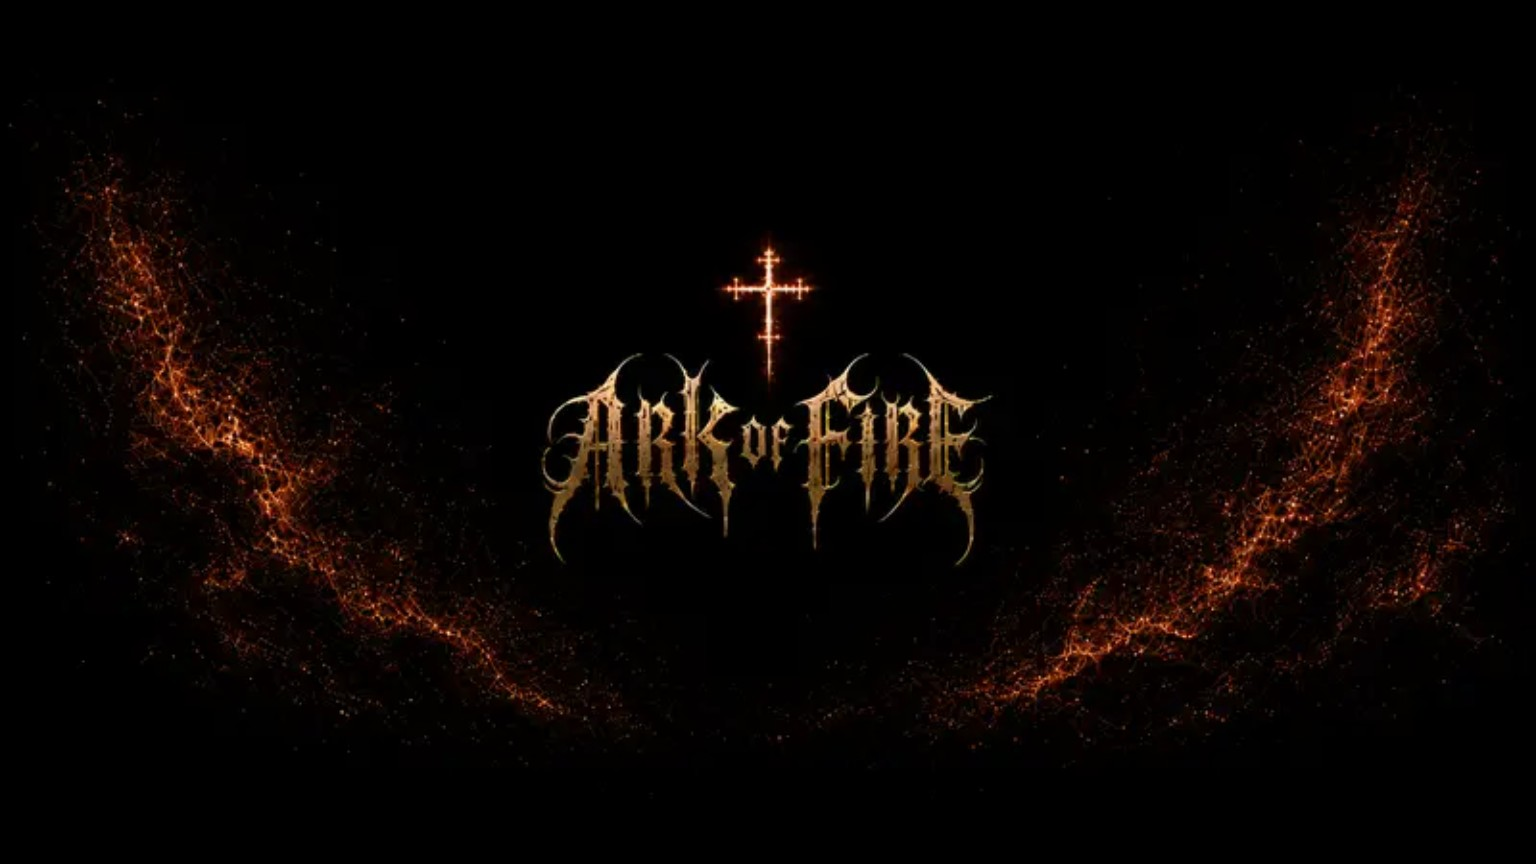
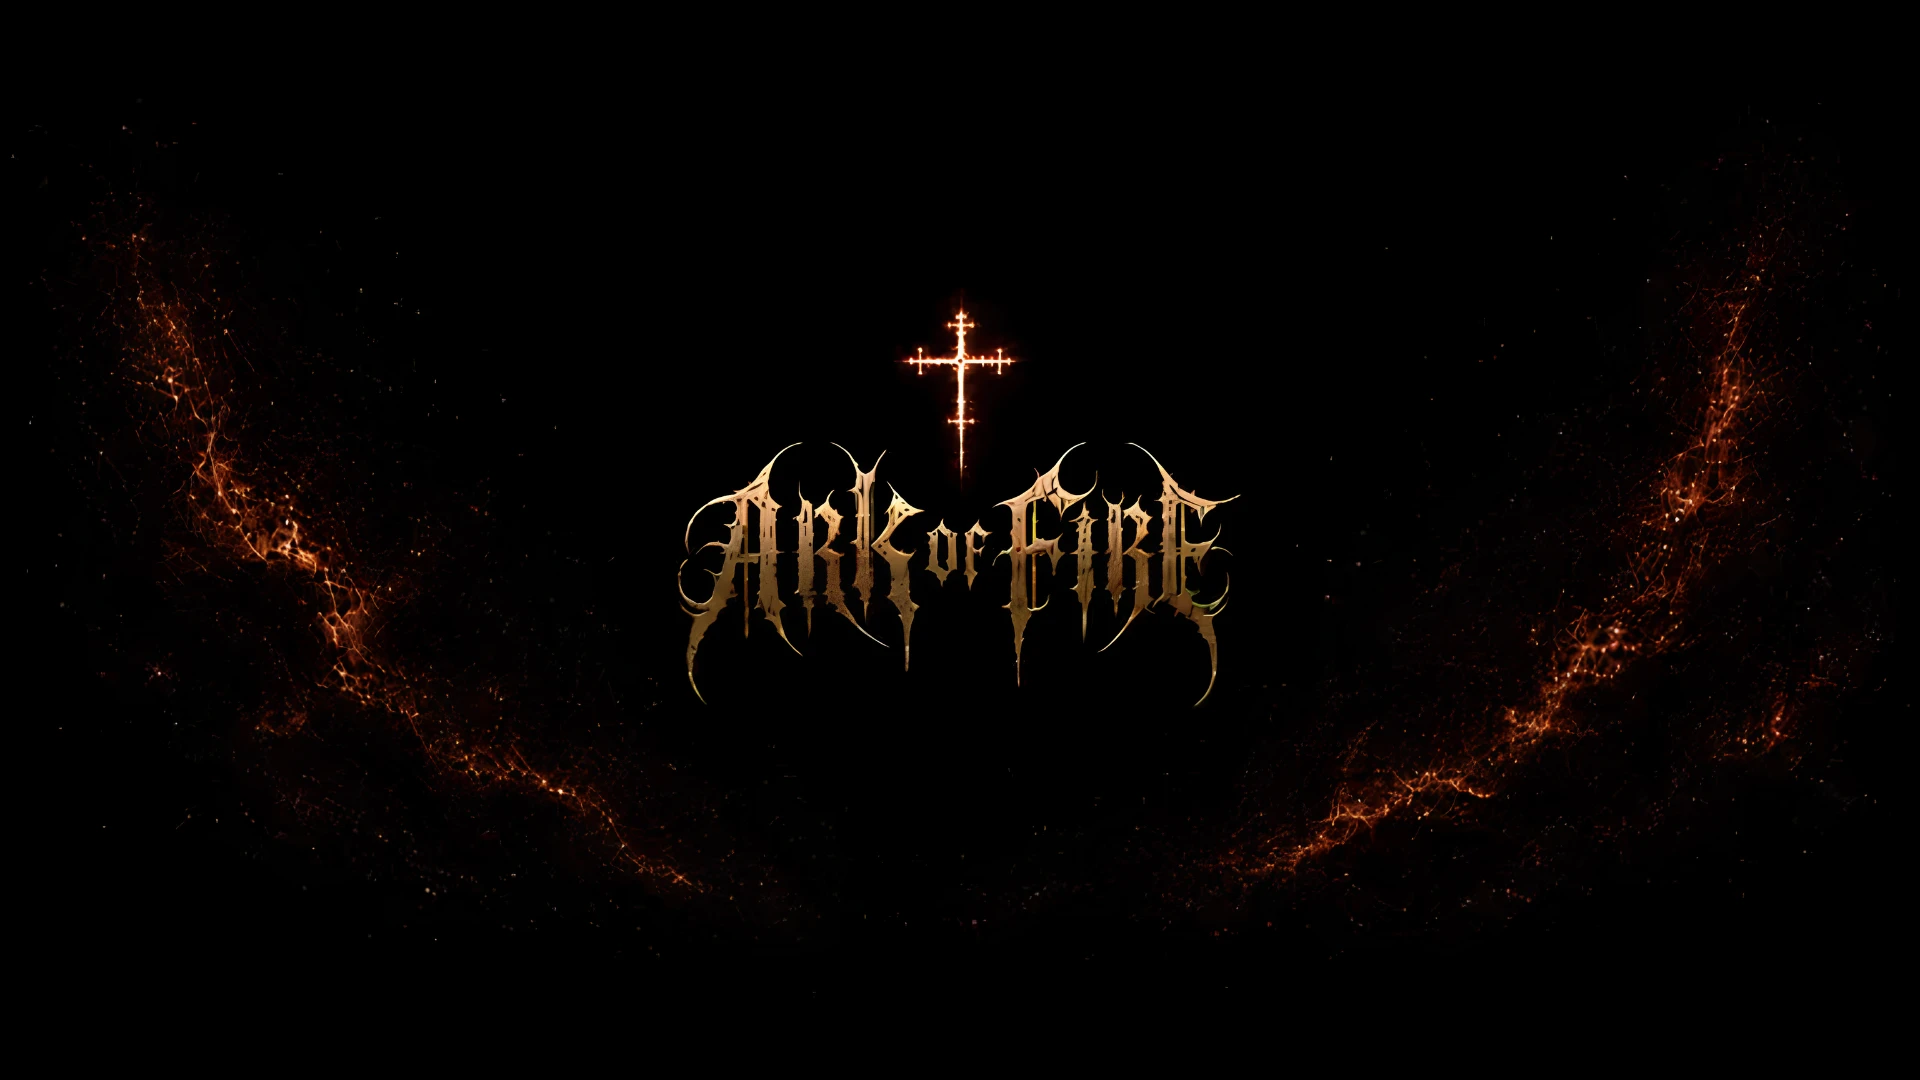
feat(ark-of-fire): HERO w lepszej jakości (WebP 1920×1080 od Dowódcy)
Poprzedni plik był JPEG 1536×864 z rozszerzeniem .webp. Nowy: prawdziwy WebP, bez metadanych, bez ponownej kompresji. Wersje cache: hero ?v=20261102_hq, CSS _2.

diff --git a/ArkOfFire/assets/styles.css b/ArkOfFire/assets/styles.css
@@ -24,11 +24,11 @@ img { max-width: 100%; }
 .skip-link { position: absolute; left: 12px; top: -80px; z-index: 50; background: var(--gold); color: #111; padding: 10px 16px; border-radius: 6px; font-weight: 700; text-decoration: none; }
 .skip-link:focus { top: 12px; }
 
-/* HERO — przesłana grafika 1536×864, logo i krzyż w grafice bez zmian */
+/* HERO — przesłana grafika 1920×1080, logo i krzyż w grafice bez zmian */
 .hero { min-height: 100svh; position: relative; display: flex; align-items: flex-end; overflow: hidden; background: #030303; }
 .hero::before {
   content: ''; position: absolute; inset: 0;
-  background-image: linear-gradient(180deg, rgba(0,0,0,.5), rgba(0,0,0,0) 35%, rgba(0,0,0,.14) 58%, #080809 97%), url('/ArkOfFire/assets/ark-of-fire-hero.webp');
+  background-image: linear-gradient(180deg, rgba(0,0,0,.5), rgba(0,0,0,0) 35%, rgba(0,0,0,.14) 58%, #080809 97%), url('/ArkOfFire/assets/ark-of-fire-hero.webp?v=20261102_hq');
   background-size: cover; background-position: center 35%;
 }
 .top { position: absolute; top: 0; left: 0; right: 0; z-index: 4; padding: 24px clamp(20px,5vw,64px); display: flex; align-items: center; justify-content: space-between; gap: 15px; }

diff --git a/ArkOfFire/en/index.html b/ArkOfFire/en/index.html
@@ -19,8 +19,8 @@
     gtag('config','G-Y4EFTVBPE3',(function(){try{var s=location.search,k='cc_team';if(/[?&]cc_team=1/.test(s))localStorage.setItem(k,'1');if(/[?&]cc_team=0/.test(s))localStorage.removeItem(k);if(localStorage.getItem(k)==='1'||/[?&]in_mcr=1/.test(s)||window.obsstudio)return{traffic_type:'internal'}}catch(e){}return{}})());
   </script><script src="/js/cc-analytics.js?v=20261026_1" defer></script>
 
-  <link rel="preload" as="image" href="/ArkOfFire/assets/ark-of-fire-hero.webp">
-  <link rel="stylesheet" href="/ArkOfFire/assets/styles.css?v=20261102_1">
+  <link rel="preload" as="image" href="/ArkOfFire/assets/ark-of-fire-hero.webp?v=20261102_hq">
+  <link rel="stylesheet" href="/ArkOfFire/assets/styles.css?v=20261102_2">
   <link rel="stylesheet" href="/css/cc-mobile-edge.css?v=20261029_edge5">
 </head>
 <body>

diff --git a/ArkOfFire/pl/index.html b/ArkOfFire/pl/index.html
@@ -19,8 +19,8 @@
     gtag('config','G-Y4EFTVBPE3',(function(){try{var s=location.search,k='cc_team';if(/[?&]cc_team=1/.test(s))localStorage.setItem(k,'1');if(/[?&]cc_team=0/.test(s))localStorage.removeItem(k);if(localStorage.getItem(k)==='1'||/[?&]in_mcr=1/.test(s)||window.obsstudio)return{traffic_type:'internal'}}catch(e){}return{}})());
   </script><script src="/js/cc-analytics.js?v=20261026_1" defer></script>
 
-  <link rel="preload" as="image" href="/ArkOfFire/assets/ark-of-fire-hero.webp">
-  <link rel="stylesheet" href="/ArkOfFire/assets/styles.css?v=20261102_1">
+  <link rel="preload" as="image" href="/ArkOfFire/assets/ark-of-fire-hero.webp?v=20261102_hq">
+  <link rel="stylesheet" href="/ArkOfFire/assets/styles.css?v=20261102_2">
   <link rel="stylesheet" href="/css/cc-mobile-edge.css?v=20261029_edge5">
 </head>
 <body>
